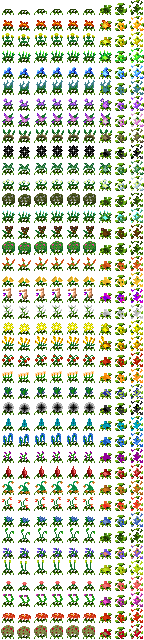
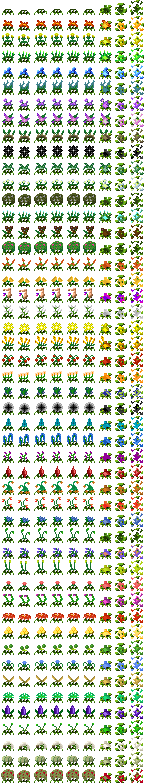
v0.0.3: Added Chillisnapper

diff --git a/core/src/main/java/com/overgrownpixel/overgrownpixeldungeon/plants/Chillisnapper.java b/core/src/main/java/com/overgrownpixel/overgrownpixeldungeon/plants/Chillisnapper.java
@@ -23,11 +23,24 @@
 
 package com.overgrownpixel.overgrownpixeldungeon.plants;
 
+import com.overgrownpixel.overgrownpixeldungeon.Assets;
+import com.overgrownpixel.overgrownpixeldungeon.Dungeon;
 import com.overgrownpixel.overgrownpixeldungeon.actors.Char;
 import com.overgrownpixel.overgrownpixeldungeon.actors.blobs.Blob;
+import com.overgrownpixel.overgrownpixeldungeon.actors.blobs.Fire;
+import com.overgrownpixel.overgrownpixeldungeon.actors.hero.Hero;
+import com.overgrownpixel.overgrownpixeldungeon.effects.MagicMissile;
 import com.overgrownpixel.overgrownpixeldungeon.effects.particles.poisonparticles.ChillisnapperPoisonParticle;
+import com.overgrownpixel.overgrownpixeldungeon.mechanics.Ballistica;
+import com.overgrownpixel.overgrownpixeldungeon.scenes.GameScene;
 import com.overgrownpixel.overgrownpixeldungeon.sprites.items.ItemSpriteSheet;
+import com.watabou.noosa.audio.Sample;
 import com.watabou.noosa.particles.Emitter;
+import com.watabou.noosa.particles.PixelParticle;
+import com.watabou.utils.Callback;
+import com.watabou.utils.PathFinder;
+
+import java.util.HashSet;
 
 public class Chillisnapper extends Plant {
 
@@ -35,19 +48,146 @@ public class Chillisnapper extends Plant {
 		image = 31;
 	}
 
+    //the actual affected cells
+    private HashSet<Integer> affectedCells;
+    //the cells to trace fire shots to, for visual effects.
+    private HashSet<Integer> visualCells;
+    private int direction = 0;
+
+    public void shoot(Char ch, int pos){
+        final Ballistica shot = new Ballistica( ch.pos, pos, Ballistica.PROJECTILE);
+        fx(shot, new Callback() {
+            @Override
+            public void call() {
+                onZap(shot);
+            }
+        }, ch);
+    }
+
+    protected void fx(Ballistica bolt, Callback callback, Char ch ) {
+        //need to perform flame spread logic here so we can determine what cells to put flames in.
+        affectedCells = new HashSet<>();
+        visualCells = new HashSet<>();
+
+        int maxDist = 2 + 2*2;
+        int dist = Math.min(bolt.dist, maxDist);
+
+        for (int i = 0; i < PathFinder.CIRCLE8.length; i++){
+            if (bolt.sourcePos+PathFinder.CIRCLE8[i] == bolt.path.get(1)){
+                direction = i;
+                break;
+            }
+        }
+
+        float strength = maxDist;
+        for (int c : bolt.subPath(1, dist)) {
+            strength--; //as we start at dist 1, not 0.
+            affectedCells.add(c);
+            if (strength > 1) {
+                spreadFlames(c + PathFinder.CIRCLE8[left(direction)], strength - 1);
+                spreadFlames(c + PathFinder.CIRCLE8[direction], strength - 1);
+                spreadFlames(c + PathFinder.CIRCLE8[right(direction)], strength - 1);
+            } else {
+                visualCells.add(c);
+            }
+        }
+
+        //going to call this one manually
+        visualCells.remove(bolt.path.get(dist));
+
+        for (int cell : visualCells){
+            //this way we only get the cells at the tip, much better performance.
+            ((MagicMissile)ch.sprite.parent.recycle( MagicMissile.class )).reset(
+                    MagicMissile.HFIRE_CONE,
+                    ch.sprite,
+                    cell,
+                    null
+            );
+        }
+        MagicMissile.boltFromChar( ch.sprite.parent,
+                MagicMissile.HFIRE_CONE,
+                ch.sprite,
+                bolt.path.get(dist/2),
+                callback );
+        if(Dungeon.level.heroFOV[bolt.sourcePos] || Dungeon.level.heroFOV[bolt.collisionPos]){
+            Sample.INSTANCE.play( Assets.SND_ZAP );
+        }
+    }
+
+    //burn... BURNNNNN!.....
+    private void spreadFlames(int cell, float strength){
+        if (strength >= 0 && (Dungeon.level.passable[cell] || Dungeon.level.flamable[cell])){
+            affectedCells.add(cell);
+            if (strength >= 1.5f) {
+                visualCells.remove(cell);
+                spreadFlames(cell + PathFinder.CIRCLE8[left(direction)], strength - 1.5f);
+                spreadFlames(cell + PathFinder.CIRCLE8[direction], strength - 1.5f);
+                spreadFlames(cell + PathFinder.CIRCLE8[right(direction)], strength - 1.5f);
+            } else {
+                visualCells.add(cell);
+            }
+        } else if (!Dungeon.level.passable[cell])
+            visualCells.add(cell);
+    }
+
+    private int left(int direction){
+        return direction == 0 ? 7 : direction-1;
+    }
+
+    private int right(int direction){
+        return direction == 7 ? 0 : direction+1;
+    }
+
+    protected void onZap( Ballistica bolt ) {
+
+        for( int cell : affectedCells){
+
+            //ignore caster cell
+            if (cell == bolt.sourcePos){
+                continue;
+            }
+
+            //only ignite cells directly near caster if they are flammable
+            if (!Dungeon.level.adjacent(bolt.sourcePos, cell)
+                    || Dungeon.level.flamable[cell]){
+                GameScene.add( Blob.seed( cell, 1+2, Fire.class ) );
+            }
+        }
+    }
+
     @Override
     public void attackProc(Char enemy, int damage) {
-
+        GameScene.add(Blob.seed(enemy.pos, 1+2, Fire.class));
     }
 
     @Override
     public void activate(Char ch) {
-
+        if(ch instanceof Hero) {
+            for (Char cha : Dungeon.level.mobs) {
+                if (ch.fieldOfView[cha.pos]) {
+                    shoot(ch, cha.pos);
+                    return;
+                }
+            }
+        } else {
+            if(ch.fieldOfView[Dungeon.hero.pos]){
+                shoot(ch, Dungeon.hero.pos);
+                return;
+            } else {
+                for (Char cha : Dungeon.level.mobs) {
+                    if(ch != cha){
+                        shoot(ch, cha.pos);
+                        return;
+                    }
+                }
+            }
+        }
+        GameScene.add(Blob.seed(ch.pos, 1+2, Fire.class));
     }
 
     @Override
     public void activate() {
-
+        GameScene.add(Blob.seed(pos, 1+2, Fire.class));
     }
 
     @Override
@@ -67,8 +207,13 @@ public class Chillisnapper extends Plant {
         public Emitter.Factory getPixelParticle() {
             return ChillisnapperPoisonParticle.FACTORY;
         }
-		
-		@Override
+
+        @Override
+        public PixelParticle poisonEmitterClass() {
+            return new ChillisnapperPoisonParticle();
+        }
+
+        @Override
 		public int price() {
 			return 30 * quantity;
 		}

diff --git a/core/src/main/java/com/overgrownpixel/overgrownpixeldungeon/items/wands/WandOfRegrowth.java b/core/src/main/java/com/overgrownpixel/overgrownpixeldungeon/items/wands/WandOfRegrowth.java
@@ -345,22 +345,7 @@ public class WandOfRegrowth extends Wand {
 
         @Override
         public void attackProc(Char enemy, int damage) {
-            int nDrops = Random.NormalIntRange(3, 6);
 
-            ArrayList<Integer> candidates = new ArrayList<Integer>();
-            for (int i : PathFinder.NEIGHBOURS8){
-                if (Dungeon.level.passable[pos+i]
-                        && pos+i != Dungeon.level.entrance
-                        && pos+i != Dungeon.level.exit){
-                    candidates.add(pos+i);
-                }
-            }
-
-            for (int i = 0; i < nDrops && !candidates.isEmpty(); i++){
-                Integer c = Random.element(candidates);
-                Dungeon.level.drop(new Dewdrop(), c).sprite.drop(pos);
-                candidates.remove(c);
-            }
         }
 
         //seed is never dropped, only care about plant class
@@ -438,22 +423,7 @@ public class WandOfRegrowth extends Wand {
 
         @Override
         public void attackProc(Char enemy, int damage) {
-            int nSeeds = Random.NormalIntRange(2, 4);
 
-            ArrayList<Integer> candidates = new ArrayList<Integer>();
-            for (int i : PathFinder.NEIGHBOURS8){
-                if (Dungeon.level.passable[pos+i]
-                        && pos+i != Dungeon.level.entrance
-                        && pos+i != Dungeon.level.exit){
-                    candidates.add(pos+i);
-                }
-            }
-
-            for (int i = 0; i < nSeeds && !candidates.isEmpty(); i++){
-                Integer c = Random.element(candidates);
-                Dungeon.level.drop(Generator.random(Generator.Category.SEED), c).sprite.drop(pos);
-                candidates.remove(c);
-            }
         }
 
 		//seed is never dropped, only care about plant class

diff --git a/core/src/main/java/com/overgrownpixel/overgrownpixeldungeon/items/weapon/missiles/darts/TippedDart.java b/core/src/main/java/com/overgrownpixel/overgrownpixeldungeon/items/weapon/missiles/darts/TippedDart.java
@@ -39,6 +39,7 @@ import com.overgrownpixel.overgrownpixeldungeon.plants.Blackholeflower;
 import com.overgrownpixel.overgrownpixeldungeon.plants.Blindweed;
 import com.overgrownpixel.overgrownpixeldungeon.plants.Butterlion;
 import com.overgrownpixel.overgrownpixeldungeon.plants.Chandaliertail;
+import com.overgrownpixel.overgrownpixeldungeon.plants.Chillisnapper;
 import com.overgrownpixel.overgrownpixeldungeon.plants.Dreamfoil;
 import com.overgrownpixel.overgrownpixeldungeon.plants.Earthroot;
 import com.overgrownpixel.overgrownpixeldungeon.plants.Fadeleaf;
@@ -167,6 +168,7 @@ public abstract class TippedDart extends Dart {
         types.put(WandOfRegrowth.Seedpod.Seed.class,SeedChaosDart.class);
         types.put(Butterlion.Seed.class,    EarthquakeDart.class);
         types.put(Chandaliertail.Seed.class,TrackingDart.class);
+        types.put(Chillisnapper.Seed.class, HeatDart.class);
 	}
 	
 	public static TippedDart getTipped( Plant.Seed s, int quantity ){

diff --git a/core/src/main/java/com/overgrownpixel/overgrownpixeldungeon/items/weapon/missiles/darts/HeatDart.java b/core/src/main/java/com/overgrownpixel/overgrownpixeldungeon/items/weapon/missiles/darts/HeatDart.java
@@ -24,6 +24,7 @@
 package com.overgrownpixel.overgrownpixeldungeon.items.weapon.missiles.darts;
 
 import com.overgrownpixel.overgrownpixeldungeon.actors.Char;
+import com.overgrownpixel.overgrownpixeldungeon.plants.Chillisnapper;
 import com.overgrownpixel.overgrownpixeldungeon.sprites.items.ItemSpriteSheet;
 
 public class HeatDart extends TippedDart {
@@ -34,7 +35,9 @@ public class HeatDart extends TippedDart {
 	
 	@Override
 	public int proc(Char attacker, Char defender, int damage) {
-
+        Chillisnapper chillisnapper = new Chillisnapper();
+        chillisnapper.pos = defender.pos;
+        chillisnapper.activate(defender);
 		return super.proc(attacker, defender, damage);
 	}
 }

diff --git a/core/src/main/java/com/overgrownpixel/overgrownpixeldungeon/plants/Plant.java b/core/src/main/java/com/overgrownpixel/overgrownpixeldungeon/plants/Plant.java
@@ -260,6 +260,8 @@ public abstract class Plant implements Bundlable {
                 return new Chandaliertail.Seed();
             case 25:
                 return new Blackholeflower.Seed();
+            case 31:
+                return new Chillisnapper.Seed();
             default:
                 return null;
         }
@@ -393,7 +395,7 @@ public abstract class Plant implements Bundlable {
 					Sample.INSTANCE.play(Assets.SND_PLANT);
 				}
 				Plant plant = plantClass.newInstance();
-				plant.playerplanted = playerplanted;
+				//plant.playerplanted = playerplanted;
 				plant.pos = pos;
 
 				return plant;

diff --git a/core/src/main/java/com/overgrownpixel/overgrownpixeldungeon/items/weapon/melee/clubs/SpikedStoneClub.java b/core/src/main/java/com/overgrownpixel/overgrownpixeldungeon/items/weapon/melee/clubs/SpikedStoneClub.java
@@ -47,7 +47,7 @@ public class SpikedStoneClub extends MeleeWeapon {
 
     @Override
     public int proc(Char attacker, Char defender, int damage) {
-        Buff.affect(defender, Bleeding.class).set(Math.max(1*level(), (attacker.HP/6)*level()));
+        Buff.affect(defender, Bleeding.class).set(Math.max(1*(level()+1), (attacker.HP/6)*(level()+1)));
         return super.proc(attacker, defender, damage);
     }
 

diff --git a/core/src/main/java/com/overgrownpixel/overgrownpixeldungeon/items/weapon/melee/clubs/SpikedClub.java b/core/src/main/java/com/overgrownpixel/overgrownpixeldungeon/items/weapon/melee/clubs/SpikedClub.java
@@ -40,7 +40,7 @@ public class SpikedClub extends MeleeWeapon {
 
     @Override
     public int proc(Char attacker, Char defender, int damage) {
-        Buff.affect(defender, Bleeding.class).set(Math.max(1*level(), (attacker.HP/6)*level()));
+        Buff.affect(defender, Bleeding.class).set(Math.max(1*(level()+1), (attacker.HP/6)*(level()+1)));
         return super.proc(attacker, defender, damage);
     }
 

diff --git a/core/src/main/java/com/overgrownpixel/overgrownpixeldungeon/items/weapon/melee/clubs/BarbedStaff.java b/core/src/main/java/com/overgrownpixel/overgrownpixeldungeon/items/weapon/melee/clubs/BarbedStaff.java
@@ -42,7 +42,7 @@ public class BarbedStaff extends MeleeWeapon {
 
     @Override
     public int proc(Char attacker, Char defender, int damage) {
-	    Buff.affect(defender, Bleeding.class).set(Math.max(1*level(), (attacker.HP/6)*level()));
+	    Buff.affect(defender, Bleeding.class).set(Math.max(1*(level()+1), (attacker.HP/6)*(level()+1)));
         return super.proc(attacker, defender, damage);
     }
 

diff --git a/core/src/main/java/com/overgrownpixel/overgrownpixeldungeon/items/weapon/melee/knifes/ClawKnife.java b/core/src/main/java/com/overgrownpixel/overgrownpixeldungeon/items/weapon/melee/knifes/ClawKnife.java
@@ -40,7 +40,7 @@ public class ClawKnife extends MeleeWeapon {
 
     @Override
     public int proc(Char attacker, Char defender, int damage) {
-        Buff.affect( defender, Bleeding.class ).set( level()*(tier+1) );
+        Buff.affect( defender, Bleeding.class ).set( (level()+1)*(tier+1) );
         return super.proc(attacker, defender, damage);
     }
 }

diff --git a/core/src/main/java/com/overgrownpixel/overgrownpixeldungeon/actors/mobs/LivingPlant.java b/core/src/main/java/com/overgrownpixel/overgrownpixeldungeon/actors/mobs/LivingPlant.java
@@ -85,7 +85,7 @@ public class LivingPlant extends Mob {
         CharSprite sprite = null;
         try {
             if(plantClass.image == 0){
-                sprite = new LivingPlantSprite(39);
+                sprite = new LivingPlantSprite(48);
             } else {
                 sprite = new LivingPlantSprite(plantClass.image);
             }

diff --git a/core/src/main/java/com/overgrownpixel/overgrownpixeldungeon/actors/hero/HeroClass.java b/core/src/main/java/com/overgrownpixel/overgrownpixeldungeon/actors/hero/HeroClass.java
@@ -111,6 +111,12 @@ public enum HeroClass {
 		}
 		
 		new ScrollOfIdentify().identify();
+
+		for(int a = 100; a > 0; a--){
+
+        }
+
+		//new ClothArmor().upgrade(100).collect();
 	}
 
 	public Badges.Badge masteryBadge() {
